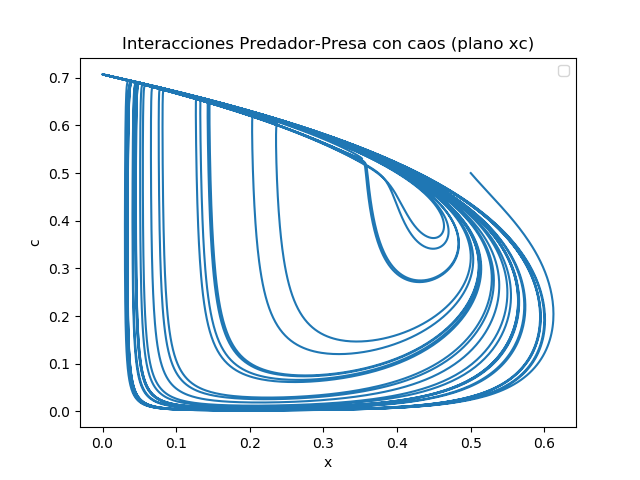
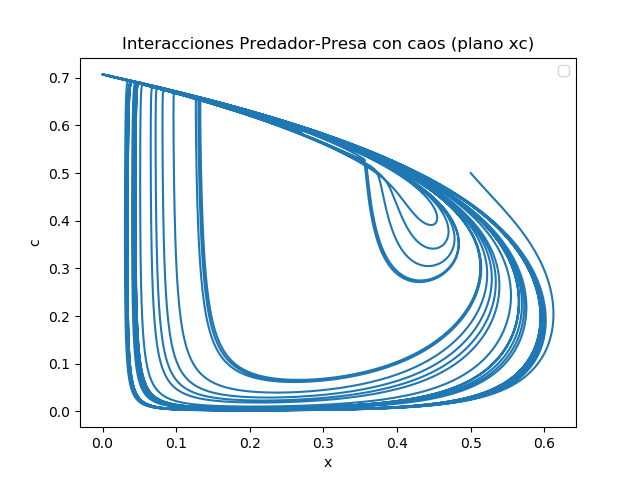
Refactor y agrego mapa de calor y funcion de adaptacion

diff --git a/src/simulation.py b/src/simulation.py
@@ -9,6 +9,8 @@ from mpl_toolkits.mplot3d import Axes3D
 from matplotlib.colors import BoundaryNorm
 from matplotlib.ticker import MaxNLocator
 from matplotlib import cm
+from matplotlib import ticker, cm
+
 
 diccModelValues={
 'a1': 2.5,
@@ -45,32 +47,38 @@ state0 = [2.0, 0.0, 0.0]
 t = np.linspace(0.0, 80.0, 800)
 legends=["c < d1/(a1-b1*d1)","c = d1/(a1-b1*d1)","c > d1/(a1-b1*d1)"]
 fixedMeanTraits=[fixedMeanTrait-0.05,fixedMeanTrait,fixedMeanTrait+0.05]
-compareFixedMeanTrait(fixedMeanTraits,state0,t,legends,yLimMin=t.min(),yLimMax=t.max(),xLabel="t",yLabel="x",title="Rasgo medio fijo")
+#compareFixedMeanTrait(fixedMeanTraits,state0,t,legends,yLimMin=t.min(),yLimMax=t.max(),xLabel="t",yLabel="x",title="Rasgo medio fijo")
 
 state0 = [0.5, 0.3, 0.5]
 t = np.linspace(0.0,  5000,  5000)
 diccModelValues["V"]=(1/3)*0.2
 model=Model(diccModelValues)
 model.simulate(state0,t)
-PlotHelper.plot2d([model.getXArray(),model.getYArray(),model.getCArray()],t,["x","y","c"],xLabel="t",title="Interacciones Predador-Presa con variacion genetica lenta")
-PlotHelper.plot2d([model.getXArray(),model.getYArray(),model.getCArray()],t,["x","y","c"],xLimMax=2000,xLimMin=1000,xLabel="t",title="Interacciones Predador-Presa con variacion genetica lenta (zoom)")
+#PlotHelper.plot2d([model.getXArray(),model.getYArray(),model.getCArray()],t,["x","y","c"],xLabel="t",title="Interacciones Predador-Presa con variacion genetica lenta")
+#PlotHelper.plot2d([model.getXArray(),model.getYArray(),model.getCArray()],t,["x","y","c"],xLimMax=2000,xLimMin=1000,xLabel="t",title="Interacciones Predador-Presa con variacion genetica lenta (zoom)")
+#PlotHelper.plot2d([model.getXArray(),model.getYArray()],t,["x","y"],xLimMax=2000,xLimMin=1000,xLabel="t",title="Interacciones Predador-Presa con variacion genetica lenta (zoom) sin c ")
 
 diccModelValues["V"]=(1/3)
 model=Model(diccModelValues)
 state0 = [0.5, 0.3, 0.5]
-t = np.linspace(0.0,  5000,  15*5000)
+t = np.linspace(0.0,  5000,  10*5000)
 states=model.simulate(state0,t)
-PlotHelper.plot2d([model.getXArray(),model.getYArray(),model.getCArray()],t,legends=["x","y","c"],xLabel="t",title="Interacciones Predador-Presa con caos")
-PlotHelper.plot2d([model.getXArray(),model.getYArray(),model.getCArray()],t,legends=["x","y","c"],xLabel="t",title="Interacciones Predador-Presa con caos (zoom)", xLimMin=500,xLimMax=2000)
+#PlotHelper.plot2d([model.getXArray(),model.getYArray(),model.getCArray()],t,legends=["x","y","c"],xLabel="t",title="Interacciones Predador-Presa con caos")
+#PlotHelper.plot2d([model.getXArray(),model.getYArray(),model.getCArray()],t,legends=["x","y","c"],xLabel="t",title="Interacciones Predador-Presa con caos (zoom)", xLimMin=500,xLimMax=2000)
 
-PlotHelper.plot3d(model.getXArray(),model.getYArray(),model.getCArray(),label_x="x",label_y="y",label_z="c",title="Interacciones Predador-Presa con caos 3-d")
+#PlotHelper.plot3d(model.getXArray(),model.getYArray(),model.getCArray(),label_x="x",label_y="y",label_z="c",title="Interacciones Predador-Presa con caos 3-d")
 
-PlotHelper.plot2d([model.getYArray()],model.getXArray(),yLabel="y",xLabel="x",title="Interacciones Predador-Presa con caos (plano xy)")
-PlotHelper.plot2d([model.getCArray()],model.getXArray(),yLabel="c",xLabel="x",title="Interacciones Predador-Presa con caos (plano xc)")
-PlotHelper.plot2d([model.getYArray()],model.getCArray(),yLabel="y",xLabel="c",title="Interacciones Predador-Presa con caos (plano cy)",invert_x=True)
+#PlotHelper.plot2d([model.getYArray()],model.getXArray(),yLabel="y",xLabel="x",title="Interacciones Predador-Presa con caos (plano xy)")
+#PlotHelper.plot2d([model.getCArray()],model.getXArray(),yLabel="c",xLabel="x",title="Interacciones Predador-Presa con caos (plano xc)")
+#PlotHelper.plot2d([model.getYArray()],model.getCArray(),yLabel="y",xLabel="c",title="Interacciones Predador-Presa con caos (plano cy)",invert_x=True)
 
+c_array = np.linspace(0.0,  1.0,  25)
+model=Model(diccModelValues)
+state0 = [0.5, 0.3, 0.5]
+t = np.linspace(0.0,  800.0 ,  800)
+states=model.simulate(state0,t)
+#PlotHelper.plot2d([model.getXArray(),model.getYArray(),model.getCArray()],t,legends=["x","y","c"],xLimMin=250,xLimMax=800,xLabel="t",title="Interacciones Predador-Presa con la funcion de aptitud")
+#PlotHelper.plot3d(r,t,model.getCArray(),yLimMin=250,yLimMax=800,label_x="r",label_y="t",label_z="c",title="Interacciones Predador-Presa con caos 3-d con la funcion de aptitud")
 
-r=model.calculateR()
-PlotHelper.plot2d([model.getXArray(),model.getYArray(),model.getCArray(),r],t,legends=["x","y","c","r"],xLimMin=250,xLimMax=800,xLabel="t",title="Interacciones Predador-Presa con la funcion de aptitud")
-PlotHelper.plot3d(r,t,model.getCArray(),yLimMin=250,yLimMax=800,label_x="r",label_y="t",label_z="c",title="Interacciones Predador-Presa con caos 3-d con la funcion de aptitud")
-
+r_matrix=model.calculateR(c_array)
+PlotHelper.plotHeatMapWithLines(t,c_array,r_matrix,line1=model.getCArray(),line2=model.getXArray(),legends=["c","x"],xLimMin=250,xLimMax=800,label_x="t",label_y="c",title="Mapa de calor funcion de adaptacion")

diff --git a/src/Model.py b/src/Model.py
@@ -35,40 +35,41 @@ class Model(object):
     def function(self,state,t):
         x = state[0]
         y = state[1]
-        c = state[2]
+        mean_c = state[2]
 
         if(self.hasFixedMeanTrait):
-            c = self.fixedMeanTrait
+            mean_c = self.fixedMeanTrait
 
         # compute state derivatives
-        xd = x*(self.a1*(c/(1+self.b1*c))-self.a3*(y/(1+self.b2*x))-self.d1)
+        xd = x*(self.a1*(mean_c/(1+self.b1*mean_c))-self.a3*(y/(1+self.b2*x))-self.d1)
         yd = y*(self.a2*(x/(1+self.b2*x))-self.d2)
-        cd = c*self.V*( (2*self.k2*self.d1) - (4*self.k4*self.d1)*c*c-(self.a1*self.k1)*(x/(1+self.b1*c)) )
-        #cd=c*V*xd/x
+        cd = mean_c*self.V*( (2*self.k2*self.d1) - (4*self.k4*self.d1)*mean_c*mean_c-(self.a1*self.k1)*(x/(1+self.b1*mean_c)) )
+        #cd=mean_c*V*xd/x
         # return the state derivatives
         return [xd, yd, cd]
 
-    """jacobian of (x*(a1*(c/(1+b1*c))-a3*(y/(1+b2*x))-d1),y*(a2*(x/(1+b2*x))-d2),c*V*( (2*k2*d1) - (4*k4*d1)*c*c-(a1*k1)*(x/(1+b1*c)) ))  with respect to  (x, y,c)"""
-    def jacobian(self,x,y,c):
-        dx_dx =(self.a1*(c/(1+self.b1*c)))-self.d1-self.a3*(y/(1+self.b2*x))+self.a3*self.b2*(x*y/((1+self.b2*x)**2))
+    """jacobian of (x*(a1*(mean_c/(1+b1*mean_c))-a3*(y/(1+b2*x))-d1),y*(a2*(x/(1+b2*x))-d2),mean_c*V*( (2*k2*d1) - (4*k4*d1)*mean_c*mean_c-(a1*k1)*(x/(1+b1*mean_c)) ))  with respect to  (x, y,mean_c)"""
+    def jacobian(self,x,y,mean_c):
+        dx_dx =(self.a1*(mean_c/(1+self.b1*mean_c)))-self.d1-self.a3*(y/(1+self.b2*x))+self.a3*self.b2*(x*y/((1+self.b2*x)**2))
         dx_dy = - (self.a3*(x/(1+self.b2*x)))
-        dx_dc = x*((self.a1 / (1 + self.b1 * c)) - (self.a1 * self.b1 * (c / (1 + self.b1 * c))))
+        dx_dc = x*((self.a1 / (1 + self.b1 * mean_c)) - (self.a1 * self.b1 * (mean_c / (1 + self.b1 * mean_c))))
         dy_dx=y*((self.a2*(x/(1+self.b2*x)))-(self.a2*self.b2*(x/((1+self.b2*x)**2))))
         dy_dy =(self.a2*(x/(1+self.b2*x)))-self.d2
         dy_dc=0
-        dc_dx=-(self.a1*c*self.k1/(1+self.b1*c))
+        dc_dx=-(self.a1*mean_c*self.k1/(1+self.b1*mean_c))
         dc_dy=0
-        dc_dc= c*self.V*((self.a1*self.b1*self.k1)*(x/((1+self.b1*c)**2)) -8*c*self.d1*self.k4)+self.V*(-4*self.d1*self.k4*c*c+2*self.d1*self.k2-(self.a1*self.k1)*(x/(1+self.b1*c)))
+        dc_dc= mean_c*self.V*((self.a1*self.b1*self.k1)*(x/((1+self.b1*mean_c)**2)) -8*mean_c*self.d1*self.k4)+self.V*(-4*self.d1*self.k4*mean_c*mean_c+2*self.d1*self.k2-(self.a1*self.k1)*(x/(1+self.b1*mean_c)))
         return np.matrix([[dx_dx,dx_dy,dx_dc],[dy_dx,dy_dy,dy_dc],[dx_dc,dy_dc,dc_dc]])
 
-    def r(self,x,y,c):
-        firstTerm=self.a1*(c/(1+self.b1*c))
-        secondTerm=-1*self.d1#*(1-self.k2*(c**2-c**(-2))+self.k4*(c**4-c**(-4)))
-        thirdTerm=self.a2*(x*y)/(1+self.b2*x)
+    def r(self,x,y,mean_c,c):
+        firstTerm=self.a1*(mean_c/(1+self.b1*mean_c))*(1-self.k1*x*(c-mean_c))
+        secondTerm=-1*self.d1*(1-self.k2*(c**2-mean_c**(2))+self.k4*(c**4-mean_c**(4)))
+        thirdTerm=-self.a2*(x*y)/(1+self.b2*x)
         return (firstTerm+secondTerm+thirdTerm)
 
-    def calculateR(self):
-        return np.array([self.r(state[0], state[1], state[2]) for state in self.states])
+    def calculateR(self,c_array):
+        r_matrix =np.array([[self.r(self.states[i][0], self.states[i][1], self.states[i][2], c)] for c in c_array for i in range(len(self.states))])
+        return np.reshape(r_matrix, (len(c_array), len(self.states)))
 
     def simulate(self,state0,t):
         self.states=  odeint(self.function, state0, t)

diff --git a/src/PlotHelper.py b/src/PlotHelper.py
@@ -1,4 +1,5 @@
 import matplotlib.pyplot as plt
+from matplotlib import ticker, cm
 
 class PlotHelper(object):
     def plot2d(list_of_lines, t, legends=[], xLimMin=0, xLimMax=0, yLimMin=0, yLimMax=0, xLabel="x", yLabel="y",
@@ -48,4 +49,25 @@ class PlotHelper(object):
         if (yLimMax != 0):
             ax.set_ylim(yLimMin, yLimMax)
         plt.savefig(title + ".png")
+        plt.show()
+
+    def plotHeatMapWithLines(x,y,z,line1=[],line2=[],legends=[],xLimMin=0,xLimMax=0, yLimMin=0, yLimMax=0,label_x="x", label_y="y", title=""):
+        # PlotHelper.scatter3d(r_matrix[:,0],r_matrix[:,1],r_matrix[:,2])
+        fig = plt.figure()
+        ax = fig.gca()
+        ax.legend(legends, loc=1)
+        ax.set_xlabel(label_x)
+        ax.set_ylabel(label_y)
+        # ax.imshow(r_matrix,interpolation='nearest',extent=[t[0],t[-1],c_array[0],c_array[-1]])
+        cntr = ax.contourf(x, y, z, cmap=cm.RdYlBu_r)
+        fig.colorbar(cntr, ax=ax)
+        if (xLimMax != 0):
+            ax.set_xlim(xLimMin, xLimMax)
+        if (yLimMax != 0):
+            ax.set_ylim(yLimMin, yLimMax)
+        ax.plot(line1, color="k", linewidth=1, linestyle='dashed')
+        ax.plot(line2, color="m", linewidth=1, linestyle='dashed')
+        ax.set_title(title)
+        plt.savefig(title + ".png")
+        plt.grid(True)
         plt.show()
